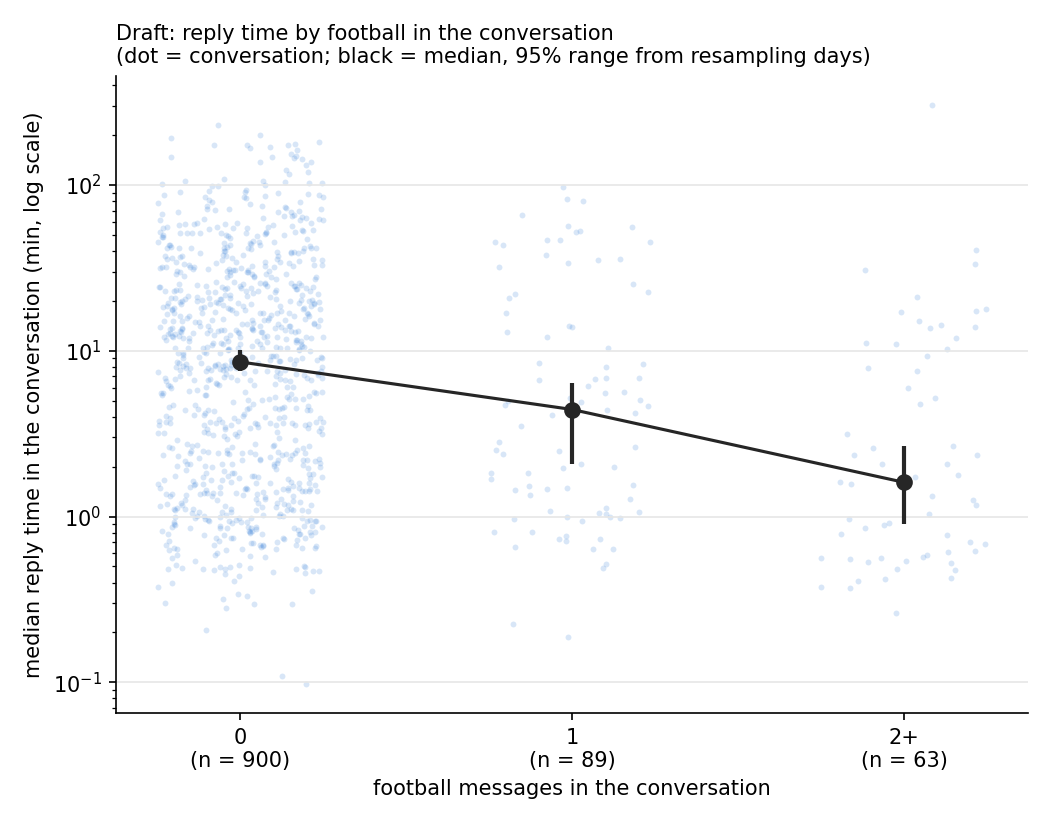
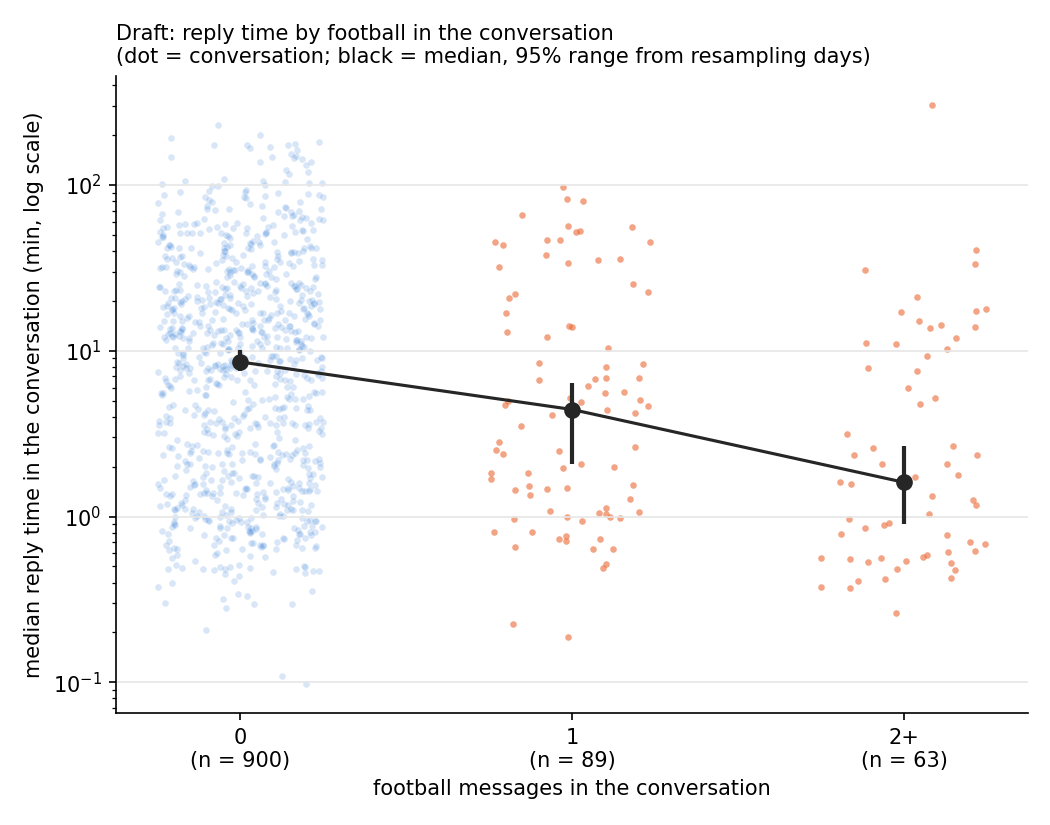
docs: polish analysis 18 chart (axis label, dot colours, error bar note)

diff --git a/analysis-log.md b/analysis-log.md
@@ -4227,4 +4227,9 @@ Holds without NL match days and without tournaments (football in general);
 1/1,000 shuffles as fast. Above the ≥ 10% expectation. A single football
 message is not clearly faster; the effect is weaker and uncertain in
 2023–26.
+- **Polish after commit 3300f0a (student):** y label shortened to "Median
+  reply time in conversation"; football groups' dots orange and stronger
+  (fewer dots, so they were hard to see), no-football dots stay light blue;
+  footnote line added explaining dot / black point / bar (95% range of the
+  median, resampling days) — the bar was not explained on the chart before.
 
